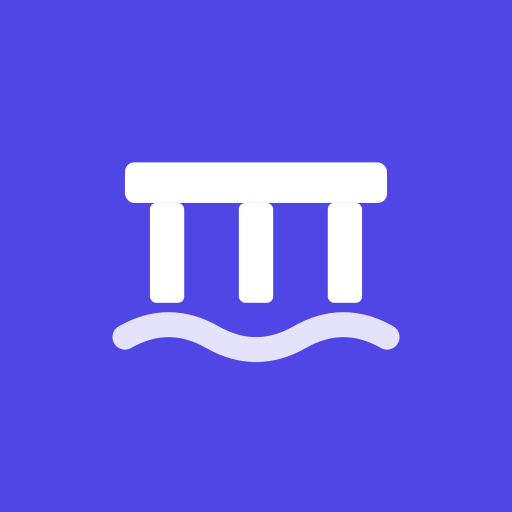
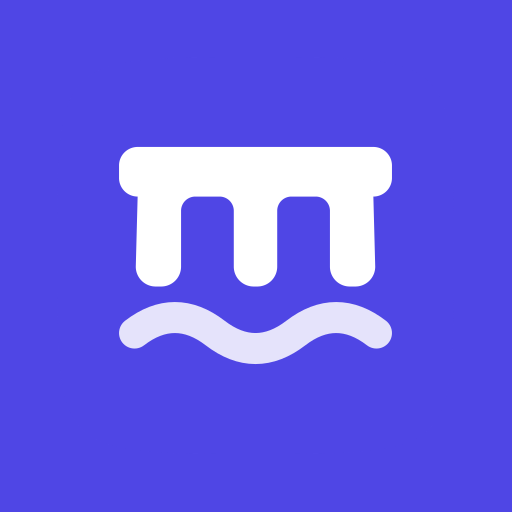
web: pin the operator's model menu in every picker, redraw the mark, drop notifications
Settings → Models said "pinned entries lead every model picker" and nothing
did: the menu was only readable through the task tool. The picker now renders
a Pinned section above Starred from /api/settings, carrying each pin's usual
reasoning level and its note as the row's tooltip — the two sections are one
`renderSection`, since a star is the same row with the level always set.

The icon is redrawn: deck and piers are a single closed path (three rects
under a bar read as loose pills at any corner radius), the openings are
flat-topped slots, the deck is the subject at depth 8 against pier width 7,
and the whole mark is centred as one bounding box — it used to sit 7/64 low.
PNGs regenerated from the SVG.

Turn-completion notifications are gone (notify.ts, sw.js, the sidebar footer
that held the toggle): one browser-local toggle behind a permission prompt,
while the thing worth being notified about already arrives in Slack or
Telegram. The safe-area gutter moves to the list that now ends the sidebar.

Changed region(s): [[0.2188, 0.375, 0.7812, 0.6875], [0.2188, 0.2812, 0.7812, 0.375], [0.4375, 0.6875, 0.5312, 0.7188]]

diff --git a/src/web/ui/model-picker.ts b/src/web/ui/model-picker.ts
@@ -7,6 +7,7 @@ import { thinkingLabel } from "../../core/reply.js";
 import { h } from "./dom.js";
 import { btn, CONTROL, field } from "./form.js";
 import { closeMenu, openPanel } from "./menu.js";
+import { report } from "./report.js";
 
 export interface ModelPickerProps {
   models: ModelRef[];
@@ -29,6 +30,22 @@ const FAVORITES_KEY = "pier.modelFavorites";
 type Favorite = ModelRef & { thinking: ThinkingLevel };
 
 const favoriteKey = (f: Favorite): string => `${modelKey(f)}@${f.thinking}`;
+
+/** A row in one of the two sections above the provider groups: a model, the
+ *  reasoning level it is usually run at (a pin may leave that open) and, for a
+ *  pin, the operator's line of intent. */
+type Entry = ModelRef & { thinking?: ThinkingLevel; note?: string };
+
+// Settings → Models: the operator's pinned shortlist, above even the stars —
+// instance-wide advice about which models this deployment actually uses. The
+// last known menu renders instantly; the fetch reconciles it.
+let pinnedMenu: Entry[] | null = null;
+
+async function loadPinned(): Promise<Entry[]> {
+  const res = await fetch("/api/settings");
+  if (!res.ok) throw new Error(`HTTP ${res.status}`);
+  return ((await res.json()) as { modelMenu: Entry[] }).modelMenu;
+}
 
 function loadFavorites(): Favorite[] {
   try {
@@ -54,6 +71,8 @@ function loadFavorites(): Favorite[] {
 function modelRow(opts: {
   label: string;
   hint?: string;
+  /** Tooltip on the label — the pin's line of intent, when it has one. */
+  title?: string;
   checked: boolean;
   starred: boolean;
   onSelect: () => void;
@@ -66,6 +85,7 @@ function modelRow(opts: {
     h("span", "truncate", opts.label),
   );
   if (opts.hint) pick.append(h("span", "ml-auto flex-none text-[11.5px] text-neutral-400", opts.hint));
+  if (opts.title) pick.title = opts.title;
   pick.onclick = () => opts.onSelect();
   const star = h(
     "button",
@@ -138,33 +158,34 @@ export function modelPicker({
     favorites.some((f) => favoriteKey(f) === `${modelKey(m)}@${l}`);
 
   const listWrap = h("div", "max-h-72 overflow-y-auto py-1");
+  /** Pins and stars name a model by key; only one this session can run counts. */
+  const known = new Map(models.map((m) => [modelKey(m), m]));
 
-  /** Starred combos first: picking one applies its reasoning level too. */
-  const renderFavorites = (normalized: string): void => {
-    const known = new Map(models.map((m) => [modelKey(m), m]));
-    const rows = favorites
-      .map((f) => ({ f, model: known.get(modelKey(f)) }))
+  /** The two sections above the provider groups — the operator's pins and the
+   *  browser's stars. Same row, and the same rule for a missing level: the one
+   *  the selector currently shows. Picking a row applies the level it names. */
+  const renderSection = (label: string, entries: Entry[], normalized: string): void => {
+    const rows = entries
+      .map((e) => ({ e, model: known.get(modelKey(e)) }))
       .filter(
-        (r): r is { f: Favorite; model: ModelRef } =>
+        (r): r is { e: Entry; model: ModelRef } =>
           !!r.model && (!normalized || modelKey(r.model).toLowerCase().includes(normalized)),
       );
     if (!rows.length) return;
     listWrap.append(
-      h(
-        "div",
-        "px-3 pb-0.5 pt-1 text-[10.5px] font-semibold uppercase tracking-wide text-neutral-400",
-        "Starred",
-      ),
-      ...rows.map(({ f, model }) =>
-        modelRow({
+      h("div", "px-3 pb-0.5 pt-1 text-[10.5px] font-semibold uppercase tracking-wide text-neutral-400", label),
+      ...rows.map(({ e, model }) => {
+        const thinking = e.thinking ?? level;
+        return modelRow({
           label: model.id,
-          hint: thinkingLabel(f.thinking),
-          checked: !!current && modelKey(current) === modelKey(model) && level === f.thinking,
-          starred: true,
-          onSelect: () => onPick(model, f.thinking),
-          onStar: () => toggleFavorite(f),
-        }),
-      ),
+          hint: e.thinking ? thinkingLabel(e.thinking) : undefined,
+          title: e.note,
+          checked: !!current && modelKey(current) === modelKey(model) && level === thinking,
+          starred: isStarred(model, thinking),
+          onSelect: () => onPick(model, e.thinking),
+          onStar: () => toggleFavorite({ provider: model.provider, id: model.id, thinking }),
+        });
+      }),
       h("div", "my-1 border-t border-neutral-100"),
     );
   };
@@ -172,7 +193,8 @@ export function modelPicker({
   const renderModels = (query: string): void => {
     listWrap.replaceChildren();
     const normalized = query.trim().toLowerCase();
-    renderFavorites(normalized);
+    renderSection("Pinned", pinnedMenu ?? [], normalized);
+    renderSection("Starred", favorites, normalized);
     const groups = new Map<string, ModelRef[]>();
     for (const m of models) {
       if (normalized && !modelKey(m).toLowerCase().includes(normalized)) continue;
@@ -219,6 +241,16 @@ export function modelPicker({
 
   search.oninput = () => renderModels(search.value);
   renderModels("");
+  // Rendered from the last known menu, refreshed on every open so an edit in
+  // Settings → Models shows up without a page reload. Re-render only on a real
+  // change: it would otherwise collapse a group the user just expanded.
+  void loadPinned()
+    .then((menu) => {
+      const changed = JSON.stringify(menu) !== JSON.stringify(pinnedMenu);
+      pinnedMenu = menu;
+      if (changed) renderModels(search.value);
+    })
+    .catch((err: unknown) => report("model menu unavailable", err));
   wrap.append(controls, listWrap);
   queueMicrotask(() => search.focus());
   return wrap;

diff --git a/src/web/ui/index.html b/src/web/ui/index.html
@@ -6,8 +6,7 @@
        under an iPhone's home indicator. -->
   <meta name="viewport" content="width=device-width, initial-scale=1, viewport-fit=cover" />
   <meta name="theme-color" content="#fafafa" />
-  <!-- Installed as a home-screen app, this is also what makes Web Push
-       possible on iOS — notifications there require a standalone web app. -->
+  <!-- Installed as a home-screen app: standalone window, own icon. -->
   <link rel="manifest" href="/manifest.webmanifest" />
   <!-- SVG first (scales to any tab/bookmark size), 32px PNG for the engines
        that still ignore it. iOS wants an opaque square and rounds it itself. -->
@@ -80,10 +79,6 @@
       </button>
     </div>
     <div id="project-tree" class="flex-1 overflow-y-auto text-[13.5px]"></div>
-    <footer class="flex flex-none items-center gap-2 border-t border-neutral-200 px-3 py-1.5 text-[11px] text-neutral-400">
-      <button type="button" id="notify-toggle" title="Notify me when a turn finishes"
-        class="cursor-pointer rounded px-1 hover:bg-neutral-200 hover:text-neutral-700">Notify</button>
-    </footer>
   </aside>
 
   <main class="flex min-w-0 flex-col overflow-hidden">

diff --git a/src/web/ui/main.ts b/src/web/ui/main.ts
@@ -31,7 +31,6 @@ import {
   send,
   updateComposer,
 } from "./composer.js";
-import { initNotify, noteState } from "./notify.js";
 import { initReport } from "./report.js";
 import {
   initHeader,
@@ -246,9 +245,6 @@ function connectWorkspace(): void {
       return;
     }
     refreshActivity();
-    // Every session, selected or not: a finished turn is worth a notification
-    // wherever it ran.
-    noteState(e.sessionId, e.state);
     // The selected session's own stream already drives composer state.
     if (e.sessionId === currentId) return;
     const s = sessions.find((x) => x.id === e.sessionId);
@@ -344,7 +340,6 @@ initShell({
     if (s) sessionMenu(anchor, s);
   },
 });
-initNotify((id) => sessions.find((s) => s.id === id)?.title ?? "Untitled session");
 initSidebar({
   sessions: () => sessions,
   currentId: () => currentId,

diff --git a/src/web/ui/style.css b/src/web/ui/style.css
@@ -66,7 +66,7 @@ html {
   }
   /* Home-indicator gutter for the two elements that sit on the bottom edge. */
   #composer,
-  #sidebar > footer {
+  #project-tree {
     padding-bottom: calc(0.5rem + env(safe-area-inset-bottom));
   }
   /* Thumb-sized rows in the drawer; the desktop rail stays compact. */
